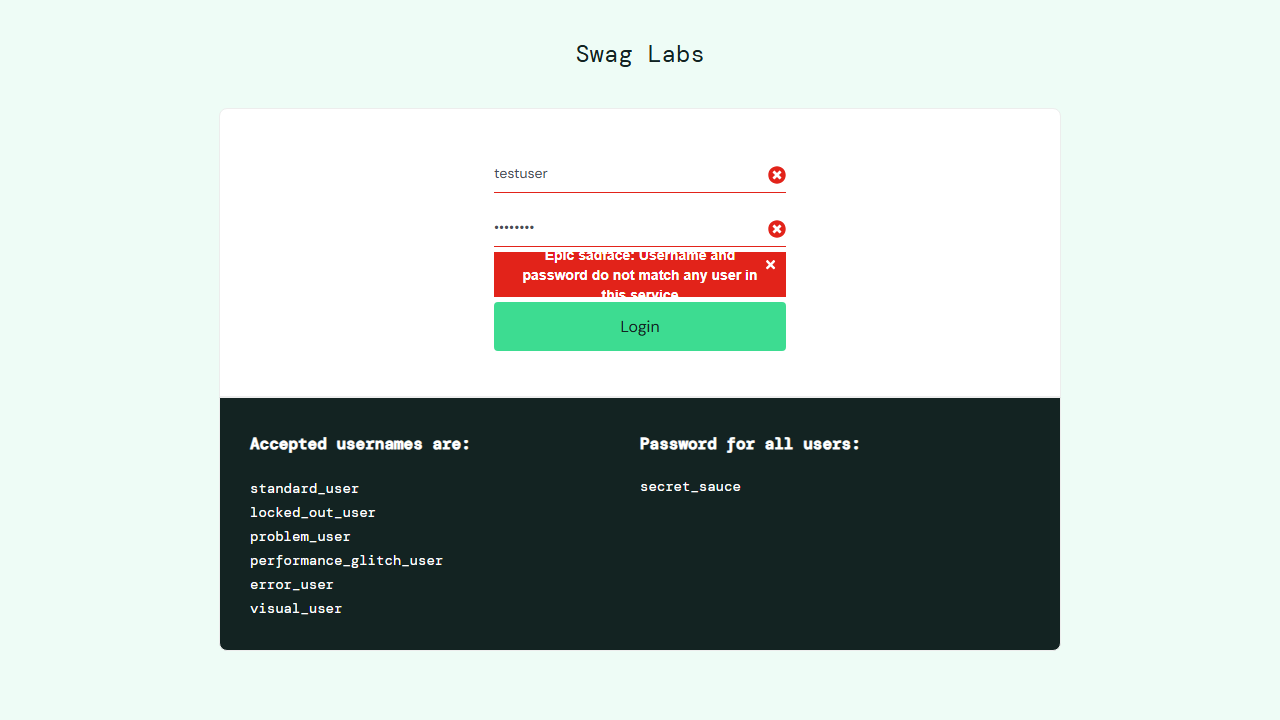
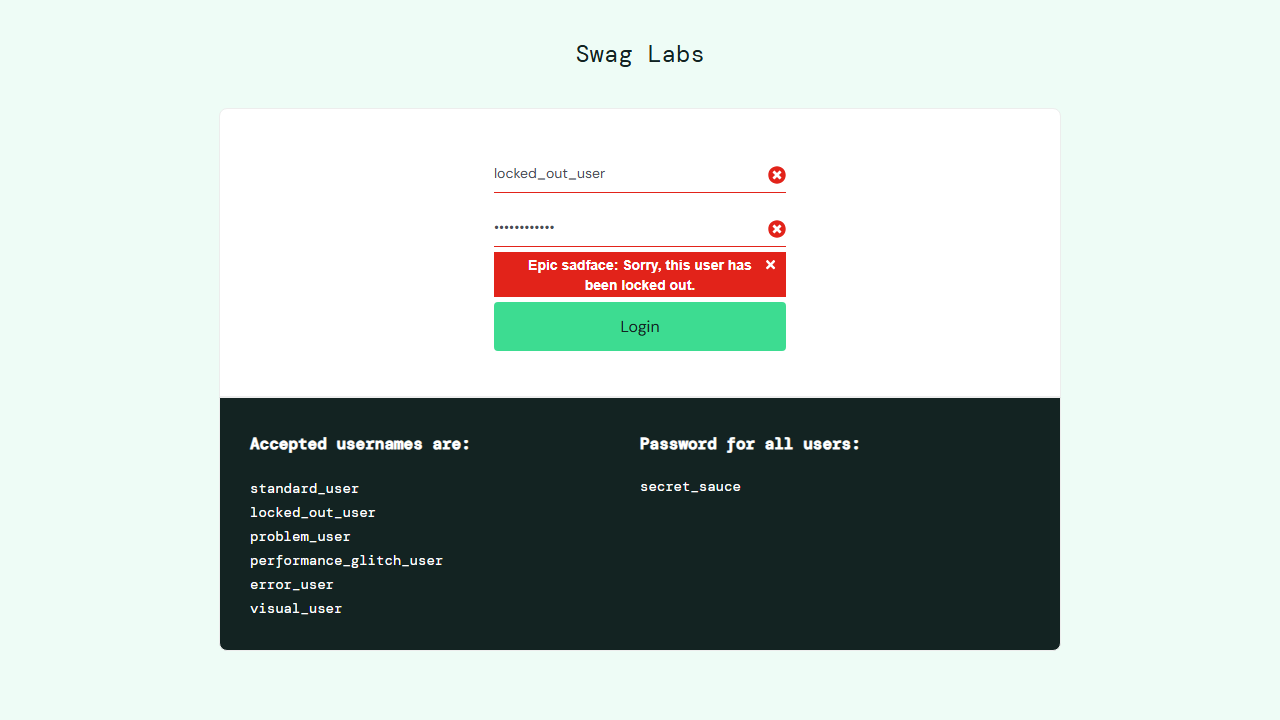
update locked user

Changed region(s): [[0.4062, 0.3361, 0.5938, 0.4278], [0.375, 0.2139, 0.4688, 0.2444]]

diff --git a/tests/HyoJeongKang_9002791_final_testcase.spec.js b/tests/HyoJeongKang_9002791_final_testcase.spec.js
@@ -11,11 +11,13 @@ test("TC01 - Empty username and Password", async ({ page }) => {
 
 test("TC02 - Not match username and Password", async ({ page }) => {
   await page.goto("https://www.saucedemo.com/");
-  await page.fill('input[name="user-name"]', "testuser");
-  await page.fill('input[name="password"]', "testuser");
+  await page.fill('input[name="user-name"]', "locked_out_user");
+  await page.fill('input[name="password"]', "secret_sauce");
   await page.click('input[name="login-button"]');
   const errorMessages = await page.locator("h3[data-test='error']").allTextContents();
-  await expect(errorMessages).toContain("Epic sadface: Username and password do not match any user in this service");
+  await expect(errorMessages).toContain(
+    "Epic sadface: Sorry, this user has been locked out."
+  );
   await page.screenshot({ path: "screenshots/tc02_not_match.png" });
 });
 
